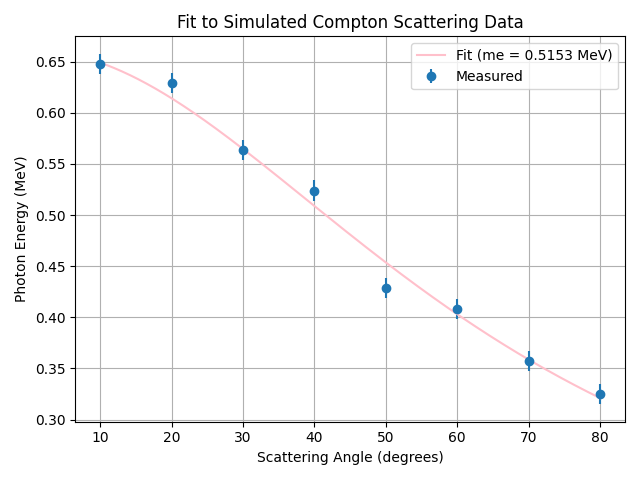
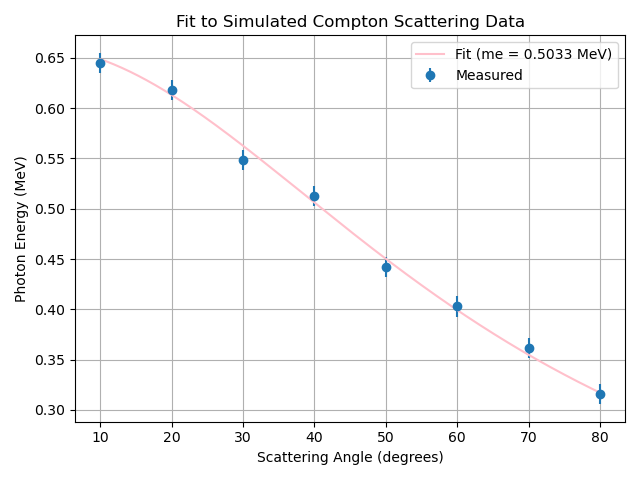
implement 4a) and 4b)

diff --git a/src/fit_electron_mass.py b/src/fit_electron_mass.py
@@ -17,27 +17,34 @@ def compton_model(theta_deg, me):
     theta_rad = np.radians(theta_deg)
     return E_in / (1 + (E_in / me) * (1 - np.cos(theta_rad)))
 
-data = np.loadtxt("data/simulated_data.csv", delimiter=",", skiprows=1)
-angles = data[:, 0]
-E_measured = data[:, 1]
+def maximum_likelihood_fit(angles, E_measured):
+    # perform maximum likelihood fit to simulated data points
+    popt, pcov = curve_fit(compton_model, angles, E_measured, p0=[0.5], sigma=np.full_like(E_measured, sigma_E), absolute_sigma=True)
+    me_fit = popt[0]
+    me_uncertainty = np.sqrt(pcov[0][0])
+    return (me_fit, me_uncertainty)
 
-# perform maximum likelihood fit to simulated data points
-popt, pcov = curve_fit(compton_model, angles, E_measured, p0=[0.5], sigma=np.full_like(E_measured, sigma_E), absolute_sigma=True)
-me_fit = popt[0]
-me_uncertainty = np.sqrt(pcov[0][0])
-print(f"Reconstructed electron mass: {me_fit:.5f} ± {me_uncertainty:.5f} MeV")
+def plot(angles, E_measured, me_fit, me_uncertainty):
+    print(f"Reconstructed electron mass: {me_fit:.5f} ± {me_uncertainty:.5f} MeV")
 
-# plot fit vs. data
-theta_fit = np.linspace(10, 80, 500)
-E_fit = compton_model(theta_fit, me_fit)
+    # plot fit vs. data
+    theta_fit = np.linspace(10, 80, 500)
+    E_fit = compton_model(theta_fit, me_fit)
 
-plt.errorbar(angles, E_measured, yerr=sigma_E, fmt='o', label='Measured')
-plt.plot(theta_fit, E_fit, label=f'Fit (me = {me_fit:.4f} MeV)', color='pink')
-plt.xlabel("Scattering Angle (degrees)")
-plt.ylabel("Photon Energy (MeV)")
-plt.title("Fit to Simulated Compton Scattering Data")
-plt.legend()
-plt.grid(True)
-plt.tight_layout()
-plt.savefig("results/fitted_mass.png")
-plt.show()
+    plt.errorbar(angles, E_measured, yerr=sigma_E, fmt='o', label='Measured')
+    plt.plot(theta_fit, E_fit, label=f'Fit (me = {me_fit:.4f} MeV)', color='pink')
+    plt.xlabel("Scattering Angle (degrees)")
+    plt.ylabel("Photon Energy (MeV)")
+    plt.title("Fit to Simulated Compton Scattering Data")
+    plt.legend()
+    plt.grid(True)
+    plt.tight_layout()
+    plt.savefig("../results/fitted_mass.png")
+    plt.show()
+
+if __name__ == "__main__":
+    data = np.loadtxt("../data/simulated_data.csv", delimiter=",", skiprows=1)
+    angles = data[:, 0]
+    E_measured = data[:, 1]
+    fit, uncertainty = maximum_likelihood_fit(angles, E_measured)
+    plot(angles, E_measured, fit, uncertainty)

diff --git a/src/compton_simulator1.py b/src/compton_simulator1.py
@@ -5,6 +5,7 @@ import matplotlib.pyplot as plt
 me_c2 = 0.511  # Electron rest mass energy in MeV
 E_in = 0.6617  # Photon energy from 137Cs in MeV
 sigma_E = 0.01  # Energy resolution of detector in MeV
+mean = 0.0
 
 def compton_energy(E_in, theta_deg):
     """Compute Compton scattered photon energy at given angle."""
@@ -18,9 +19,12 @@ def simulate_measurement():
     E_true = compton_energy(E_in, angles_deg)
 
     # Add Gaussian noise to simulate detector measurement
-    noise = np.random.normal(loc=0.0, scale=sigma_E, size=E_true.shape)
+    noise = np.random.normal(loc=mean, scale=sigma_E, size=E_true.shape)
     E_measured = E_true + noise
-    np.savetxt("data/simulated_data.csv", np.column_stack([angles_deg, E_measured]),
+    return (angles_deg, E_measured, E_true)
+
+def save_and_plot(angles_deg, E_measured, E_true):
+    np.savetxt("../data/simulated_data.csv", np.column_stack([angles_deg, E_measured]),
                delimiter=",", header="angle_deg,E_measured", comments='')
 
 
@@ -32,8 +36,9 @@ def simulate_measurement():
     plt.grid(True)
     plt.legend()
     plt.tight_layout()
-    plt.savefig("results/simulated_measurement.png")
+    plt.savefig("../results/simulated_measurement.png")
     plt.show()
 
 if __name__ == "__main__":
-    simulate_measurement()
+    angles, measured, true = simulate_measurement()
+    save_and_plot(angles, measured, true)

diff --git a/src/compton_simulator_multiple.py b/src/compton_simulator_multiple.py
@@ -1,0 +1,36 @@
+import numpy as np
+import matplotlib.pyplot as plt
+import compton_simulator1
+import fit_electron_mass
+
+def repetitions():
+    N = 1000
+    masses = []
+    uncertainties = []
+    for i in range(N):
+        angles_deg, E_measured, E_true = compton_simulator1.simulate_measurement()
+        mass, uncertainty = fit_electron_mass.maximum_likelihood_fit(angles_deg, E_measured)
+        masses.append(mass)
+        uncertainties.append(uncertainty)
+    return masses
+
+def histogram(masses):
+    plt.hist(masses, bins=30)
+    plt.xlabel("Electron Mass (MeV)")
+    plt.ylabel("Count")
+    plt.title("Distribution of 1000 simulations of electron mass (MeV)")
+    plt.savefig("../results/histogram_repetition.png")
+    plt.show()
+
+def distribution(masses):
+    mean = np.mean(masses)
+    std = np.std(masses)
+    return mean, std
+
+if __name__ == "__main__":
+    np.random.seed(42)
+    masses = repetitions()
+    histogram(masses)
+    mean, sd = distribution(masses)
+    print(f"The mean of the distribution is: {round(mean, 5)}")
+    print(f"The standard deviation of the distribution is: {round(sd, 5)}")
